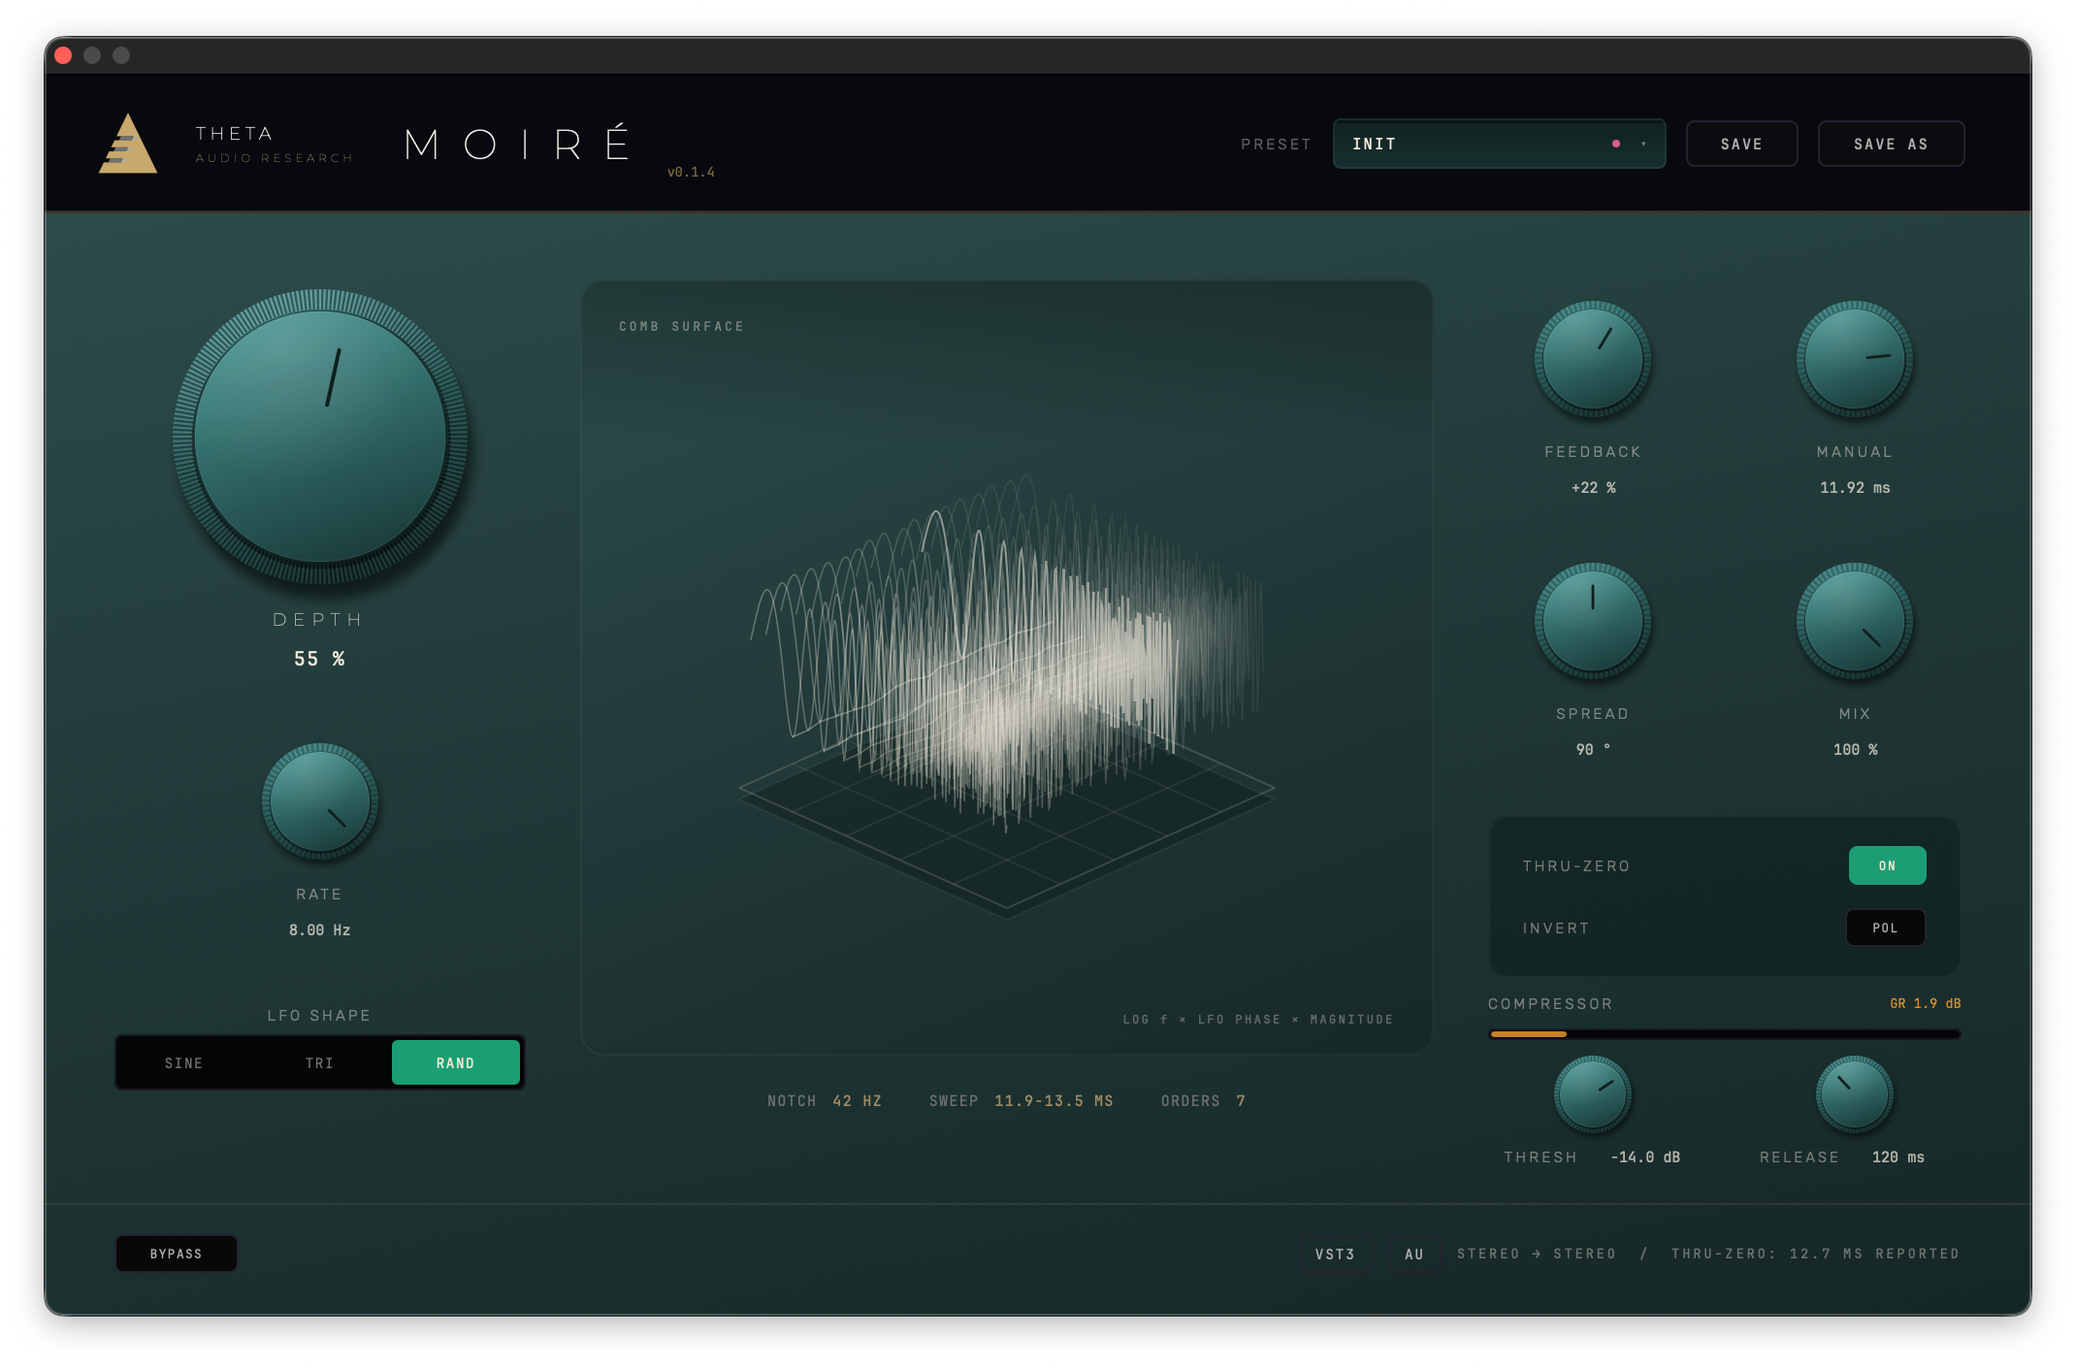
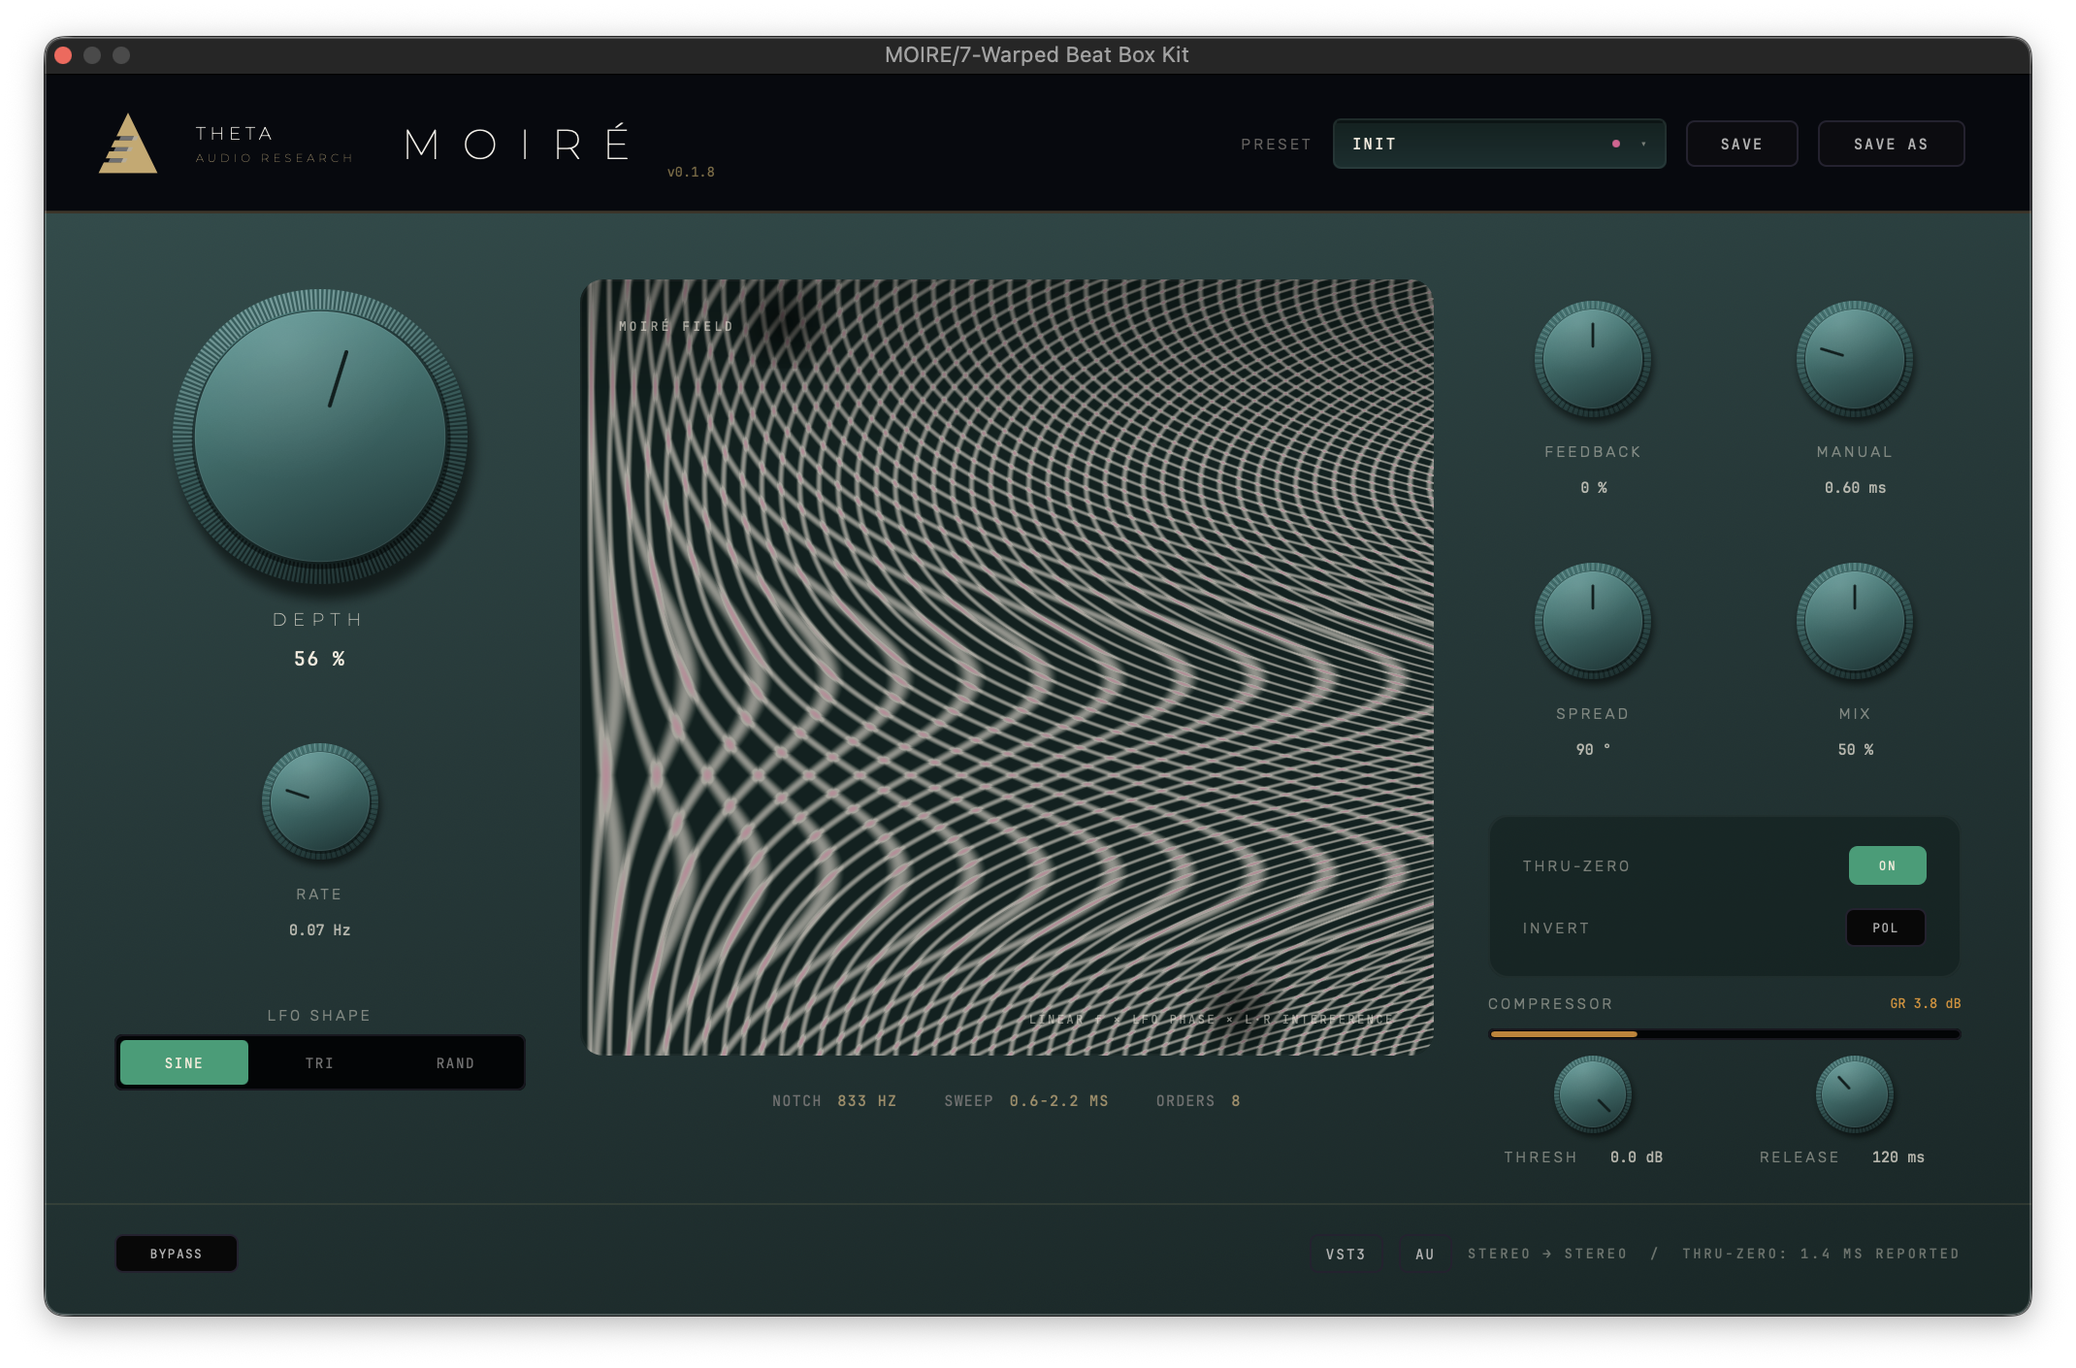
CC BACK

diff --git a/color_collection.html b/color_collection.html
@@ -24,10 +24,6 @@
       <g fill="#B0B0B0" fill-opacity="0.62"><path d="M40.4 40 L64 40 L61.3 45.5 L37.7 45.5 Z"></path><path d="M33.1 55 L56.7 55 L54 60.5 L30.4 60.5 Z"></path><path d="M25.8 70 L49.4 70 L46.7 75.5 L23.1 75.5 Z"></path></g>
     </svg>
   </a>
-  <div style="position:absolute;left:50%;top:50%;transform:translate(-50%,-50%);display:flex;flex-direction:column;align-items:center;text-align:center;pointer-events:none;max-width:calc(100% - 640px)">
-    <h2 style="font-family:'Montserrat',sans-serif;font-weight:300;font-size:22px;letter-spacing:8px;color:#B0B2B7;text-transform:uppercase;margin:0;padding-left:8px;white-space:nowrap">THE COLOR COLLECTION</h2>
-    <p style="font-family:'Montserrat',sans-serif;font-weight:400;font-size:8px;letter-spacing:6px;color:#DCCDBF;text-transform:uppercase;margin:5px 0 0 0;opacity:0.8;padding-left:6px">Six Instruments // One Spectrum</p>
-  </div>
   <div style="display:flex;gap:20px">
     <a href="index.html" style="color:#DCCDBF;text-decoration:none;font-size:9px;letter-spacing:3px;font-weight:700;border:1px solid #3A3534;padding:8px 16px;transition:0.3s;text-transform:uppercase" style-hover="background:#DCCDBF;color:#0C1519">RETURN_TO_LAB</a>
     <a href="store.html" style="color:#DCCDBF;text-decoration:none;font-size:9px;letter-spacing:3px;font-weight:700;border:1px solid #3A3534;padding:8px 16px;transition:0.3s;text-transform:uppercase" style-hover="background:#DCCDBF;color:#0C1519">STORE</a>
@@ -41,6 +37,117 @@
     <p style="font-weight:300;font-size:13.5px;line-height:1.9;color:#81848A;margin:0 auto 44px auto;max-width:460px;text-wrap:pretty">On the bench. Leave your address and we will send one notice the day it ships &mdash; nothing else.</p>
     <a href="mailto:info@theta.audio?subject=THE%20COLOR%20COLLECTION%20updates" data-notify="THE COLOR COLLECTION" style="display:inline-block;border:1px solid #DCCDBF;color:#DCCDBF;padding:22px 46px;text-decoration:none;font-weight:700;font-size:11px;letter-spacing:6px;transition:0.4s;text-transform:uppercase" style-hover="background:#DCCDBF;color:#0C1519">NOTIFY_ME_AT_LAUNCH</a>
     <p style="font-family:'JetBrains Mono',monospace;font-size:9px;letter-spacing:3px;color:#6E6764;margin:26px 0 0 0;text-transform:uppercase">One notice per release. No list rental.</p>
+  </section>
+
+  <section data-screen-label="Collection gallery" style="max-width:1050px;margin:0 auto 40px auto">
+    <article style="border-top:1px solid #3A3534;padding:46px 0 10px 0">
+      <div style="display:flex;justify-content:space-between;align-items:baseline;gap:20px;flex-wrap:wrap;margin-bottom:14px">
+        <span style="font-size:24px;letter-spacing:10px;color:#B0B2B7;text-transform:uppercase;font-weight:700">MOIR&Eacute;</span>
+        <span style="font-family:'JetBrains Mono',monospace;font-size:9px;letter-spacing:3px;color:#C8A86B;text-transform:uppercase">THRU-ZERO FLANGER // v0.1.8</span>
+      </div>
+      <p style="font-weight:300;font-size:13px;line-height:1.85;color:#81848A;margin:0 0 26px 0;max-width:760px;text-wrap:pretty">A thru-zero flanger with its own comb surface drawn in real time. Sine, triangle or random LFO shapes drive the sweep; the display switches between the isometric comb surface and the flat interference field so you can see the notches move.</p>
+      <div style="display:grid;grid-template-columns:repeat(3,minmax(0,1fr));gap:18px">
+      <figure style="margin:0">
+        <div onClick="{{ openMoire }}" style="border:1px solid #3A3534;background:#0C1519;cursor:zoom-in;transition:border-color 0.4s" style-hover="border-color:#CFC5B6">
+          <image-slot id="cc-moire" src="assets/moire/hero.png?v=260905" fit="contain" style="width:100%;height:auto;aspect-ratio:2140/1410;display:block;pointer-events:none" shape="rect" placeholder="COMB SURFACE"></image-slot>
+        </div>
+        <figcaption style="font-family:'JetBrains Mono',monospace;font-size:9px;letter-spacing:3px;color:#6E6764;text-transform:uppercase;margin-top:10px">COMB SURFACE</figcaption>
+      </figure>
+      <figure style="margin:0">
+        <div onClick="{{ openMoireField }}" style="border:1px solid #3A3534;background:#0C1519;cursor:zoom-in;transition:border-color 0.4s" style-hover="border-color:#CFC5B6">
+          <image-slot id="cc-moire-field" src="assets/moire/hero_field.png?v=260905" fit="contain" style="width:100%;height:auto;aspect-ratio:2140/1410;display:block;pointer-events:none" shape="rect" placeholder="MOIR&Eacute; FIELD"></image-slot>
+        </div>
+        <figcaption style="font-family:'JetBrains Mono',monospace;font-size:9px;letter-spacing:3px;color:#6E6764;text-transform:uppercase;margin-top:10px">MOIR&Eacute; FIELD</figcaption>
+      </figure>
+      <figure style="margin:0">
+        <div onClick="{{ openMoireRand }}" style="border:1px solid #3A3534;background:#0C1519;cursor:zoom-in;transition:border-color 0.4s" style-hover="border-color:#CFC5B6">
+          <image-slot id="cc-moire-rand" src="assets/moire/hero_rand.png?v=260905" fit="contain" style="width:100%;height:auto;aspect-ratio:2140/1410;display:block;pointer-events:none" shape="rect" placeholder="RAND // +76% FEEDBACK"></image-slot>
+        </div>
+        <figcaption style="font-family:'JetBrains Mono',monospace;font-size:9px;letter-spacing:3px;color:#6E6764;text-transform:uppercase;margin-top:10px">RAND // +76% FEEDBACK</figcaption>
+      </figure>
+      </div>
+    </article>
+
+    <article style="border-top:1px solid #3A3534;padding:46px 0 10px 0">
+      <div style="display:flex;justify-content:space-between;align-items:baseline;gap:20px;flex-wrap:wrap;margin-bottom:14px">
+        <span style="font-size:24px;letter-spacing:10px;color:#B0B2B7;text-transform:uppercase;font-weight:700">CONCORD</span>
+        <span style="font-family:'JetBrains Mono',monospace;font-size:9px;letter-spacing:3px;color:#C8A86B;text-transform:uppercase">VOICE-BRAID CHORUS</span>
+      </div>
+      <p style="font-weight:300;font-size:13px;line-height:1.85;color:#81848A;margin:0 0 26px 0;max-width:760px;text-wrap:pretty">Braided voices around a shared centre &mdash; wide without smearing the source.</p>
+      <div style="display:grid;grid-template-columns:repeat(1,minmax(0,1fr));gap:18px">
+      <figure style="margin:0">
+        <div onClick="{{ openConcord }}" style="border:1px solid #3A3534;background:#0C1519;cursor:zoom-in;transition:border-color 0.4s" style-hover="border-color:#CFC5B6">
+          <image-slot id="cc-concord" src="assets/concord/hero.png?v=260823b" fit="contain" style="width:100%;height:auto;aspect-ratio:2140/1378;display:block;pointer-events:none" shape="rect" placeholder="HARMONIC VORTEX"></image-slot>
+        </div>
+        <figcaption style="font-family:'JetBrains Mono',monospace;font-size:9px;letter-spacing:3px;color:#6E6764;text-transform:uppercase;margin-top:10px">HARMONIC VORTEX</figcaption>
+      </figure>
+      </div>
+    </article>
+
+    <article style="border-top:1px solid #3A3534;padding:46px 0 10px 0">
+      <div style="display:flex;justify-content:space-between;align-items:baseline;gap:20px;flex-wrap:wrap;margin-bottom:14px">
+        <span style="font-size:24px;letter-spacing:10px;color:#B0B2B7;text-transform:uppercase;font-weight:700">CINDER</span>
+        <span style="font-family:'JetBrains Mono',monospace;font-size:9px;letter-spacing:3px;color:#C8A86B;text-transform:uppercase">DISTORTION &amp; SATURATION</span>
+      </div>
+      <p style="font-weight:300;font-size:13px;line-height:1.85;color:#81848A;margin:0 0 26px 0;max-width:760px;text-wrap:pretty">Warm through hot in one continuous move, with the heat shown as it accumulates.</p>
+      <div style="display:grid;grid-template-columns:repeat(1,minmax(0,1fr));gap:18px">
+      <figure style="margin:0">
+        <div onClick="{{ openCinder }}" style="border:1px solid #3A3534;background:#0C1519;cursor:zoom-in;transition:border-color 0.4s" style-hover="border-color:#CFC5B6">
+          <image-slot id="cc-cinder" src="assets/cinder/hero.png?v=260823" fit="contain" style="width:100%;height:auto;aspect-ratio:2140/1410;display:block;pointer-events:none" shape="rect" placeholder="MAIN VIEW"></image-slot>
+        </div>
+        <figcaption style="font-family:'JetBrains Mono',monospace;font-size:9px;letter-spacing:3px;color:#6E6764;text-transform:uppercase;margin-top:10px">MAIN VIEW</figcaption>
+      </figure>
+      </div>
+    </article>
+
+    <article style="border-top:1px solid #3A3534;padding:46px 0 10px 0">
+      <div style="display:flex;justify-content:space-between;align-items:baseline;gap:20px;flex-wrap:wrap;margin-bottom:14px">
+        <span style="font-size:24px;letter-spacing:10px;color:#B0B2B7;text-transform:uppercase;font-weight:700">GIRE</span>
+        <span style="font-family:'JetBrains Mono',monospace;font-size:9px;letter-spacing:3px;color:#C8A86B;text-transform:uppercase">ALLPASS-SURFACE PHASER</span>
+      </div>
+      <p style="font-weight:300;font-size:13px;line-height:1.85;color:#81848A;margin:0 0 26px 0;max-width:760px;text-wrap:pretty">A phaser built on an allpass surface &mdash; continuous rotation rather than stepped stages.</p>
+      <div style="display:grid;grid-template-columns:repeat(1,minmax(0,1fr));gap:18px">
+      <figure style="margin:0">
+        <div onClick="{{ openGire }}" style="border:1px solid #3A3534;background:#0C1519;cursor:zoom-in;transition:border-color 0.4s" style-hover="border-color:#CFC5B6">
+          <image-slot id="cc-gire" src="assets/gire/hero.png?v=260823" fit="contain" style="width:100%;height:auto;aspect-ratio:2140/1410;display:block;pointer-events:none" shape="rect" placeholder="MAIN VIEW"></image-slot>
+        </div>
+        <figcaption style="font-family:'JetBrains Mono',monospace;font-size:9px;letter-spacing:3px;color:#6E6764;text-transform:uppercase;margin-top:10px">MAIN VIEW</figcaption>
+      </figure>
+      </div>
+    </article>
+
+    <article style="border-top:1px solid #3A3534;padding:46px 0 10px 0">
+      <div style="display:flex;justify-content:space-between;align-items:baseline;gap:20px;flex-wrap:wrap;margin-bottom:14px">
+        <span style="font-size:24px;letter-spacing:10px;color:#B0B2B7;text-transform:uppercase;font-weight:700">VESTIGE</span>
+        <span style="font-family:'JetBrains Mono',monospace;font-size:9px;letter-spacing:3px;color:#C8A86B;text-transform:uppercase">THREE-ENGINE REVERB</span>
+      </div>
+      <p style="font-weight:300;font-size:13px;line-height:1.85;color:#81848A;margin:0 0 26px 0;max-width:760px;text-wrap:pretty">Three reverb engines under one set of controls, from close chamber to long resonant tail.</p>
+      <div style="display:grid;grid-template-columns:repeat(1,minmax(0,1fr));gap:18px">
+      <figure style="margin:0">
+        <div onClick="{{ openVestige }}" style="border:1px solid #3A3534;background:#0C1519;cursor:zoom-in;transition:border-color 0.4s" style-hover="border-color:#CFC5B6">
+          <image-slot id="cc-vestige" src="assets/vestige/hero.png?v=260823" fit="contain" style="width:100%;height:auto;aspect-ratio:2140/1550;display:block;pointer-events:none" shape="rect" placeholder="MAIN VIEW"></image-slot>
+        </div>
+        <figcaption style="font-family:'JetBrains Mono',monospace;font-size:9px;letter-spacing:3px;color:#6E6764;text-transform:uppercase;margin-top:10px">MAIN VIEW</figcaption>
+      </figure>
+      </div>
+    </article>
+
+    <article style="border-top:1px solid #3A3534;padding:46px 0 10px 0">
+      <div style="display:flex;justify-content:space-between;align-items:baseline;gap:20px;flex-wrap:wrap;margin-bottom:14px">
+        <span style="font-size:24px;letter-spacing:10px;color:#B0B2B7;text-transform:uppercase;font-weight:700">EUCLID</span>
+        <span style="font-family:'JetBrains Mono',monospace;font-size:9px;letter-spacing:3px;color:#C8A86B;text-transform:uppercase">SHIFTED FIELD DELAY</span>
+      </div>
+      <p style="font-weight:300;font-size:13px;line-height:1.85;color:#81848A;margin:0 0 26px 0;max-width:760px;text-wrap:pretty">Delay with a shifted field &mdash; repeats that move off-grid as they decay.</p>
+      <div style="display:grid;grid-template-columns:repeat(1,minmax(0,1fr));gap:18px">
+      <figure style="margin:0">
+        <div onClick="{{ openEuclid }}" style="border:1px solid #3A3534;background:#0C1519;cursor:zoom-in;transition:border-color 0.4s" style-hover="border-color:#CFC5B6">
+          <image-slot id="cc-euclid" src="assets/euclid/hero.png?v=260823b" fit="contain" style="width:100%;height:auto;aspect-ratio:2140/1730;display:block;pointer-events:none" shape="rect" placeholder="MAIN VIEW"></image-slot>
+        </div>
+        <figcaption style="font-family:'JetBrains Mono',monospace;font-size:9px;letter-spacing:3px;color:#6E6764;text-transform:uppercase;margin-top:10px">MAIN VIEW</figcaption>
+      </figure>
+      </div>
+    </article>
+
   </section>
 </main>
 
@@ -83,7 +190,9 @@ class Component extends DCLogic {
       setZoomImg: (el) => { this._zoomImgEl = el; if (el && z && z.src) { el.src = z.src; this._lastZoomSrc = z.src; } },
       closeZoom: () => this.setState({ zoomed: null }),
       stopClick: (e) => e.stopPropagation(),
-      openMoire: this._mk('assets/moire/hero.png?v=260823b', 2140, 2140 / 1410),
+      openMoire: this._mk('assets/moire/hero.png?v=260905', 2140, 2140 / 1410),
+      openMoireField: this._mk('assets/moire/hero_field.png?v=260905', 2140, 2140 / 1410),
+      openMoireRand: this._mk('assets/moire/hero_rand.png?v=260905', 2140, 2140 / 1410),
       openConcord: this._mk('assets/concord/hero.png?v=260823b', 2140, 2140 / 1378),
       openGire: this._mk('assets/gire/hero.png?v=260823', 2140, 2140 / 1410),
       openCinder: this._mk('assets/cinder/hero.png?v=260823', 2140, 2140 / 1410),

diff --git a/penrose.html b/penrose.html
@@ -97,7 +97,7 @@ input.pen-range:focus-visible{outline:1px solid #DCCDBF;outline-offset:6px}
     <span style="font-size:10px;letter-spacing:4px;color:#6E9B6E;margin-bottom:15px;display:block;font-weight:700">SYSTEM_STATUS // FREE</span>
     <div style="background:rgba(22,38,22,0.15);border:1px solid #283B28;padding:40px">
       <p style="font-size:11px;font-weight:400;letter-spacing:2px;opacity:0.8;margin-bottom:30px;text-transform:uppercase;color:#87B387">PENROSE is free. Universal macOS build, AU and VST3. Leave an address and the installer link comes straight back.</p>
-      <a href="downloads/PENROSE-0.2.7-macOS.dmg" data-gate="PENROSE" style="display:block;text-align:center;border:1px solid #6E9B6E;color:#A6DCA6;padding:25px;text-decoration:none;font-weight:700;font-size:12px;letter-spacing:6px;transition:0.4s" style-hover="background:#6E9B6E;color:#0C1519">DOWNLOAD // MAC</a>
+      <a href="downloads/PENROSE-0.2.13-macOS.dmg" data-gate="PENROSE" style="display:block;text-align:center;border:1px solid #6E9B6E;color:#A6DCA6;padding:25px;text-decoration:none;font-weight:700;font-size:12px;letter-spacing:6px;transition:0.4s" style-hover="background:#6E9B6E;color:#0C1519">DOWNLOAD // MAC</a>
       <p style="font-size:9px;letter-spacing:2px;line-height:1.9;text-transform:uppercase;color:#6E6764;margin:16px 0 0 0;font-weight:700">One notice per release. No list rental.</p>
     </div>
   </section>
@@ -146,7 +146,7 @@ input.pen-range:focus-visible{outline:1px solid #DCCDBF;outline-offset:6px}
       <li style="font-weight:300;font-size:13px;margin-bottom:24px;padding-left:20px;position:relative;color:#81848A;letter-spacing:0.01em" style-before="content:'//';position:absolute;left:0;color:#DCCDBF;font-weight:700;opacity:0.5"><b style="font-weight:700;color:#B0B2B7;display:block;margin-bottom:4px;letter-spacing:1px">Ceiling</b>Armed at all times at &minus;1.0 dBFS. Horizon is the threshold, measured down from it.</li>
       <li style="font-weight:300;font-size:13px;margin-bottom:24px;padding-left:20px;position:relative;color:#81848A;letter-spacing:0.01em" style-before="content:'//';position:absolute;left:0;color:#DCCDBF;font-weight:700;opacity:0.5"><b style="font-weight:700;color:#B0B2B7;display:block;margin-bottom:4px;letter-spacing:1px">Installation</b>One signed installer package. Each format is placed where its host expects it.</li>
       <li style="font-weight:300;font-size:13px;margin-bottom:24px;padding-left:20px;position:relative;color:#81848A;letter-spacing:0.01em" style-before="content:'//';position:absolute;left:0;color:#DCCDBF;font-weight:700;opacity:0.5"><b style="font-weight:700;color:#B0B2B7;display:block;margin-bottom:4px;letter-spacing:1px">Formats &amp; platform</b>VST3 &middot; AU &middot; AAX &middot; macOS 11.0 Big Sur or later &middot; Apple Silicon.</li>
-      <li style="font-weight:300;font-size:13px;margin-bottom:24px;padding-left:20px;position:relative;color:#81848A;letter-spacing:0.01em" style-before="content:'//';position:absolute;left:0;color:#DCCDBF;font-weight:700;opacity:0.5"><b style="font-weight:700;color:#B0B2B7;display:block;margin-bottom:4px;letter-spacing:1px">Version</b>0.2.7, in calibration.</li>
+      <li style="font-weight:300;font-size:13px;margin-bottom:24px;padding-left:20px;position:relative;color:#81848A;letter-spacing:0.01em" style-before="content:'//';position:absolute;left:0;color:#DCCDBF;font-weight:700;opacity:0.5"><b style="font-weight:700;color:#B0B2B7;display:block;margin-bottom:4px;letter-spacing:1px">Version</b>0.2.13, in calibration.</li>
     </ul>
   </section>
 </main>
